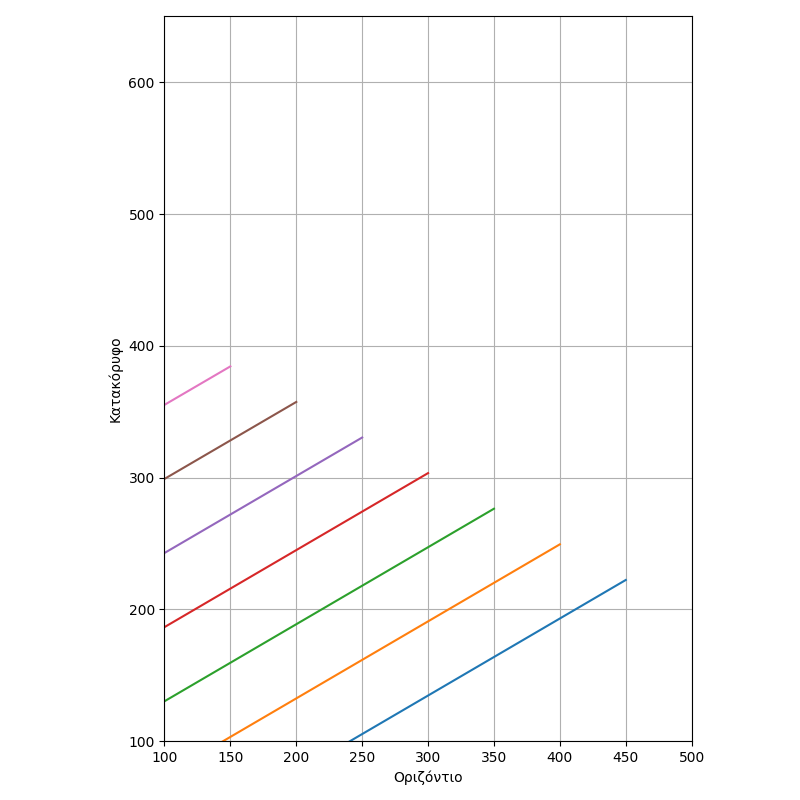
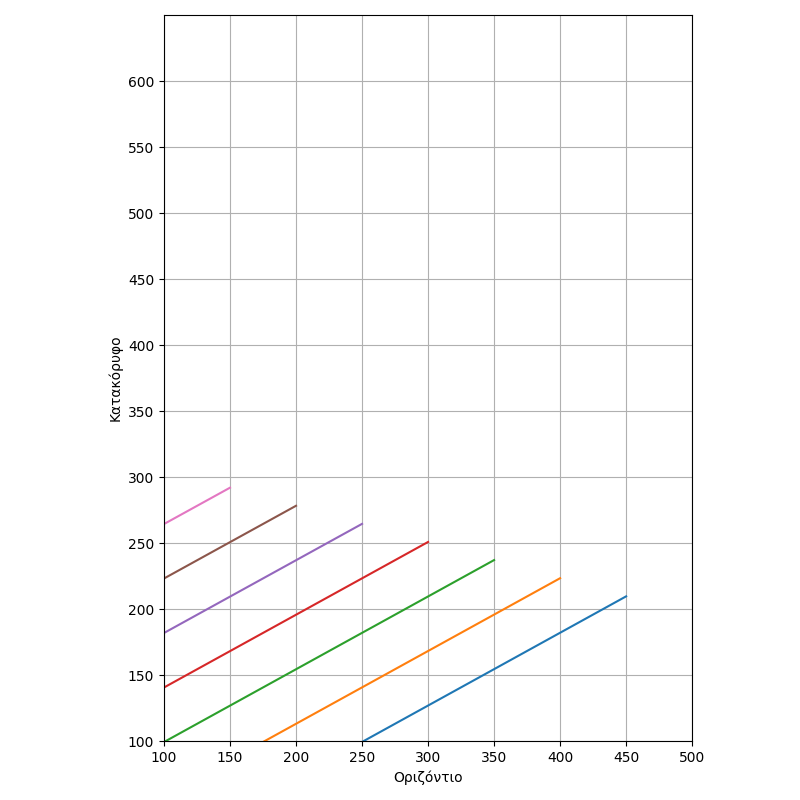
progression

diff --git a/map_S4_linnet.py b/map_S4_linnet.py
@@ -1,0 +1,116 @@
+import numpy as np
+
+
+XLIM = (100, 500)
+YLIM = (100, 650)
+
+boundaries = {
+    0: [(145, 100), (450, 370), (450, 650)],
+    1: [(105, 100), (150, 132.5), (400, 355), (400, 650)],
+    2: [(100, 147.5), (282.5, 280), (350, 340), (350, 650)],
+    3: [(100, 200), (300, 345), (300, 650)],
+    4: [(100, 250), (250, 360), (250, 650)],
+    5: [(100, 302.5), (200, 375), (200, 650)],
+    6: [(100, 355), (150, 390), (150, 650)],
+}
+
+
+tower = (310, 345, 1.23)
+
+def boundary_x(boundary_id, y):
+    """
+        Return the x-limit of one boundary at vertical coordinate y.
+        Points to the right or bottom of this limit are considered no-go.
+    """
+
+    points = boundaries[boundary_id]
+
+    xs = np.array([p[0] for p in points])
+    ys = np.array([p[1] for p in points])
+
+    return np.interp(y, xs, ys)
+
+
+
+boundaries = {
+    0: [(145, 100), (450, 370), (450, 650)],
+    1: [(105, 100), (150, 132.5), (400, 355), (400, 650)],
+    2: [(100, 147.5), (282.5, 280), (350, 340), (350, 650)],
+    3: [(100, 200), (300, 345), (300, 650)],
+    4: [(100, 250), (250, 360), (250, 650)],
+    5: [(100, 302.5), (200, 375), (200, 650)],
+    6: [(100, 355), (150, 390), (150, 650)],
+}
+
+def max_angle(tower, boundaries):
+    """
+        Return the maximum line angle (in degrees)
+    """
+
+    H, V, angle = tower
+    print(H)
+
+    max_angle = 6
+
+    for boundary_id in boundaries:
+        min_Vert = boundary_y(boundary_id, H)   
+        print(min_Vert)
+
+    return H, V, angle
+
+
+def boundary_y_at_x(boundary_points, x):
+    """
+        Return the y-value where one boundary crosses a given x-value.
+
+        Vertical segments are ignored, because for x = constant they do not
+        correspond to one unique y-value.
+    """
+
+    for p1, p2 in zip(boundary_points[:-1], boundary_points[1:]):
+        x1, y1 = p1
+        x2, y2 = p2
+
+        # Ignore vertical segments
+        if x1 == x2:
+            continue
+
+        # Check whether x lies inside this segment's x-range
+        xmin = min(x1, x2)
+        xmax = max(x1, x2)
+
+        if xmin <= x <= xmax:
+            t = (x - x1) / (x2 - x1)
+            y = y1 + t * (y2 - y1)
+            return y
+
+    return None
+
+
+def all_boundary_y_values_at_x(x):
+    """
+    Return all valid boundary y-values for a given x.
+    """
+
+    results = []
+
+    for boundary_id, points in boundaries.items():
+        y = boundary_y_at_x(points, x)
+
+        if y is not None:
+            results.append((boundary_id, y))
+
+    return results
+
+values = all_boundary_y_values_at_x(x)
+
+    for boundary_id, y in values:
+        print(f"Boundary {boundary_id}: y = {y:.2f}")
+
+def main():
+    #a = max_angle(tower, boundaries)
+    a = boundary_y(0, 310)
+    print(a)
+
+if __name__ == "__main__":
+    main()

diff --git a/loads.py b/loads.py
@@ -31,19 +31,15 @@ def Vor(H, B_mon, phi, T, alpha, diam, wind, ice, ice_density, gravity, w):
 
 def main():
     
-    S = 290                 # m
-    h = 0                   # m
-    Th = 2875               # kg
-    
-    w = 1.303 -0.074               # kg/m   after subtracting K constant
-    diam = 25.15            # mm
+    w = 1.303                # kg/m   !!!!! consider subtracting K constant
+    diam = 25.15            # mm    Grosbeak = 25.15, Linnet = 18.31
     ice = 0                 # inches
     ice_density = 900       # kg/m^3
     wind = 20              # kg/m2
     gravity = 9.810665      # m/s^2
 
     phi = np.radians(35)    # the input in degrees 
-    T = 2775              # ruling span tension
+    T = 2160              # ruling span tension
     B_mon = 100              # kg     
     #alpha = np.radians(0)   # the input in degrees
     
@@ -77,6 +73,7 @@ def main():
     
     plt.xlim(100, 500)
     plt.ylim(100, 650)
+    plt.yticks(np.arange(100, 650, 50))
     plt.gca().set_aspect('equal', adjustable='box')
     
     plt.show()
